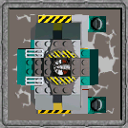
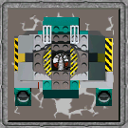
Fixed vehicle types, support station orientation

diff --git a/rockRaiders.js b/rockRaiders.js
@@ -537,7 +537,7 @@ function checkUpdateClickSelection() {
 			}
 			if (vehicleSelected != null) {
 				selection = [vehicleSelected];
-				selectionType = "vehicle";
+				selectionType = selection[0].type;
 			}
 			else {	
 				//check if collectable clicked

diff --git a/classes/vehicles/Vehicle.js b/classes/vehicles/Vehicle.js
@@ -19,4 +19,5 @@ function Vehicle(image, space, driver,maxHp) {
 	this.canDrill = true;
 	this.canFly = false;
 	this.canSwim = false;
+	this.type = "vehicle";
 }

diff --git a/classes/vehicles/HoverScout.js b/classes/vehicles/HoverScout.js
@@ -6,4 +6,5 @@ function HoverScout(space, driver) {
 	this.capacity = 3;
 	this.drillSpeed = 4;
 	this.hardRockDrillSpeed = .1;
+	this.type = "hover scout";
 }
